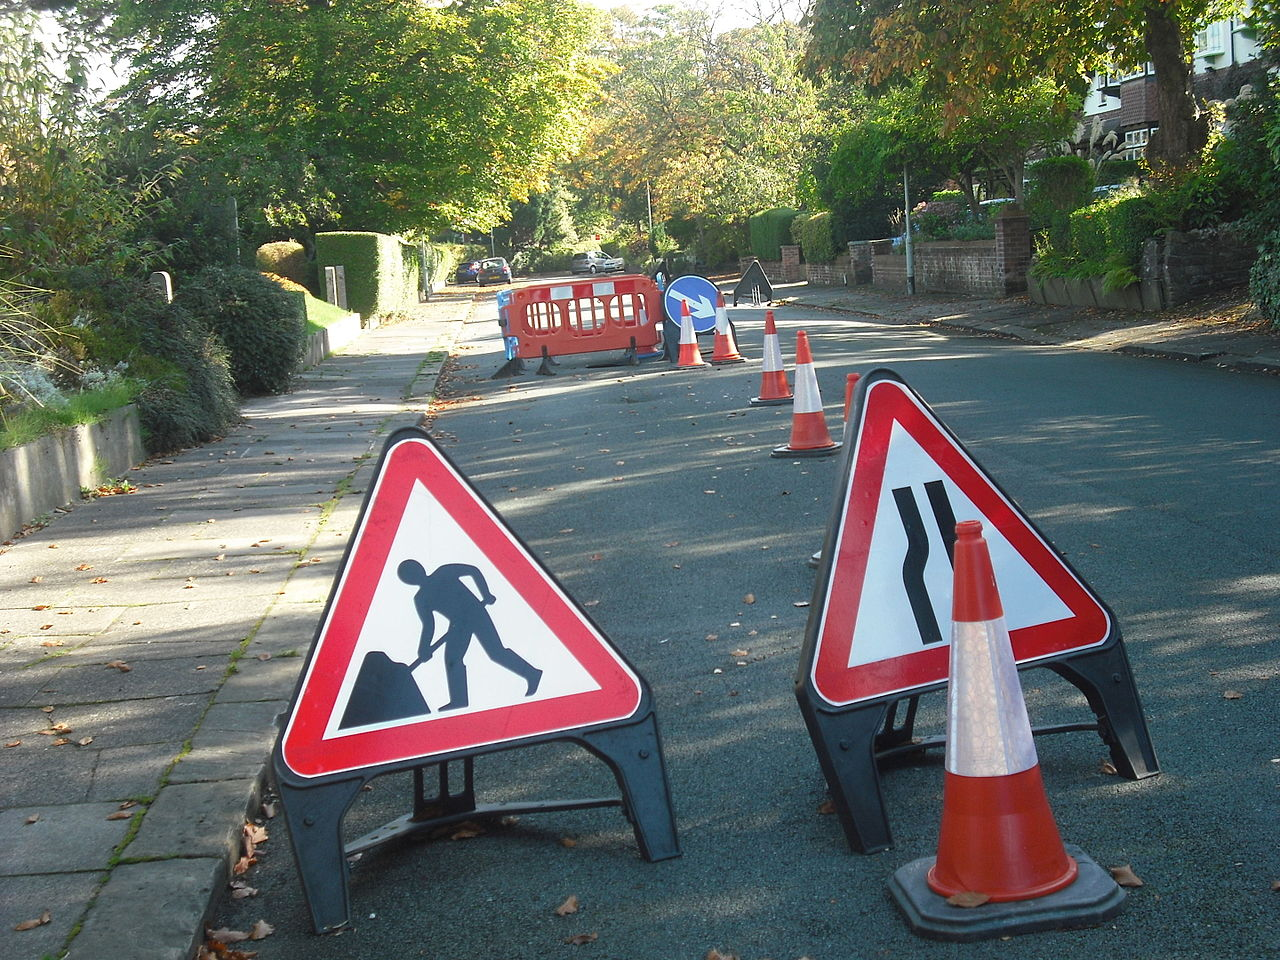
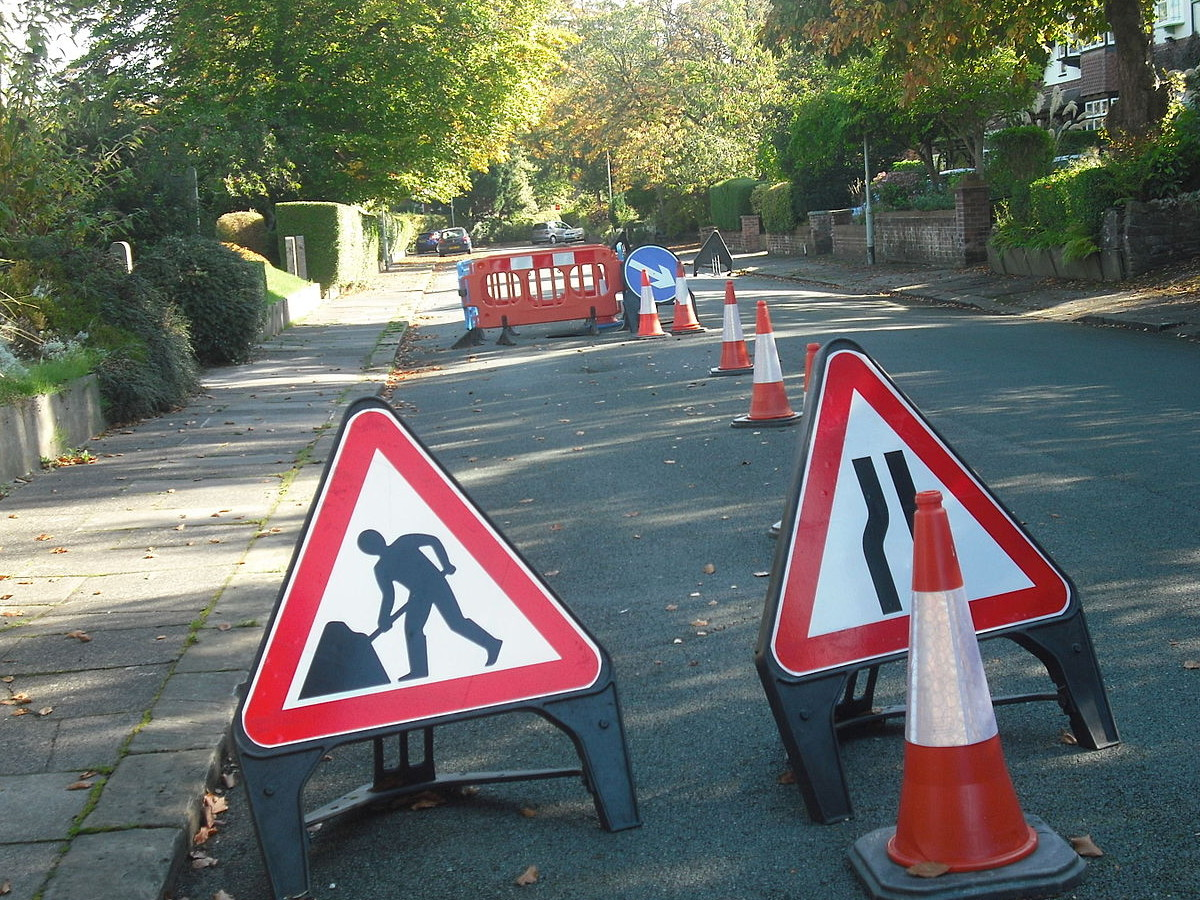
cropped images and updated about me image

diff --git a/services.html b/services.html
@@ -42,8 +42,6 @@
 		      <li class="card-text">Service 2</li>
 		      <li class="card-text">Service 3</li>
 		      </ul>
-		      <p class="card-text"></p>
-		      <p class="card-text"><small class="text-muted">Last updated 3 mins ago</small></p>
 		    </div>
 		  </div>
 		  <div class="card">
@@ -55,12 +53,10 @@
 		      <li class="card-text">Service 2</li>
 		      <li class="card-text">Service 3</li>
 		      </ul>
-		      <p class="card-text"></p>
-		      <p class="card-text"><small class="text-muted">Last updated 3 mins ago</small></p>
 		    </div>
 		  </div>
 		  <div class="card">
-		    <img class="card-img-top" src="images/truck.jpg" alt="Card image cap">
+		    <img class="card-img-top " src="images/truck.jpg" alt="Card image cap">
 		    <div class="card-body">
 		      <h5 class="card-title">Hauling Services</h5>
 		      <ul>
@@ -68,8 +64,6 @@
 		      <li class="card-text">Service 2</li>
 		      <li class="card-text">Service 3</li>
 		      </ul>
-		      <p class="card-text"></p>
-		      <p class="card-text"><small class="text-muted">Last updated 3 mins ago</small></p>
 		    </div>
 		  </div>
 		</div>

diff --git a/about.html b/about.html
@@ -1,5 +1,3 @@
-permalink: /:about/
-
 <!doctype html>
 <html lang="en">
   <head>
@@ -33,12 +31,14 @@ permalink: /:about/
 		</nav>
 		<div>
 			<div class="card bg-secondary text-white">
-		  <img src="images/chicago.jpg" class="card-img" style="object-fit: cover" >
-		  <div class="card-img-overlay" style="align-items:center">
-		    <h2 class="card-title text-center font-weight-bold">About Us</h2>
-		    <p class="card-text text-center">Text about the company</p>
-		    <p class="card-text text-center">Sentence about company history</p>
-		    <p class="card-text text-center">Licensing information</p>
+		  <img src="images/chicago.jpg" class="card-img" style="object-fit: cover; filter: brightness(50%)" >
+		  <div class="card-img-overlay " style="align-items:center">
+		    <h1 class="card-title text-center font-weight-bold">About Us</h1>
+		    <div>
+		    <h3 class="card-text text-center">Text about the company</h3>
+		    <h3 class="card-text text-center">Sentence about company history</h3>
+		    <h3 class="card-text text-center">Licensing information</h3>
+		    </div>
 		  </div>
 			</div>
 		</div>
